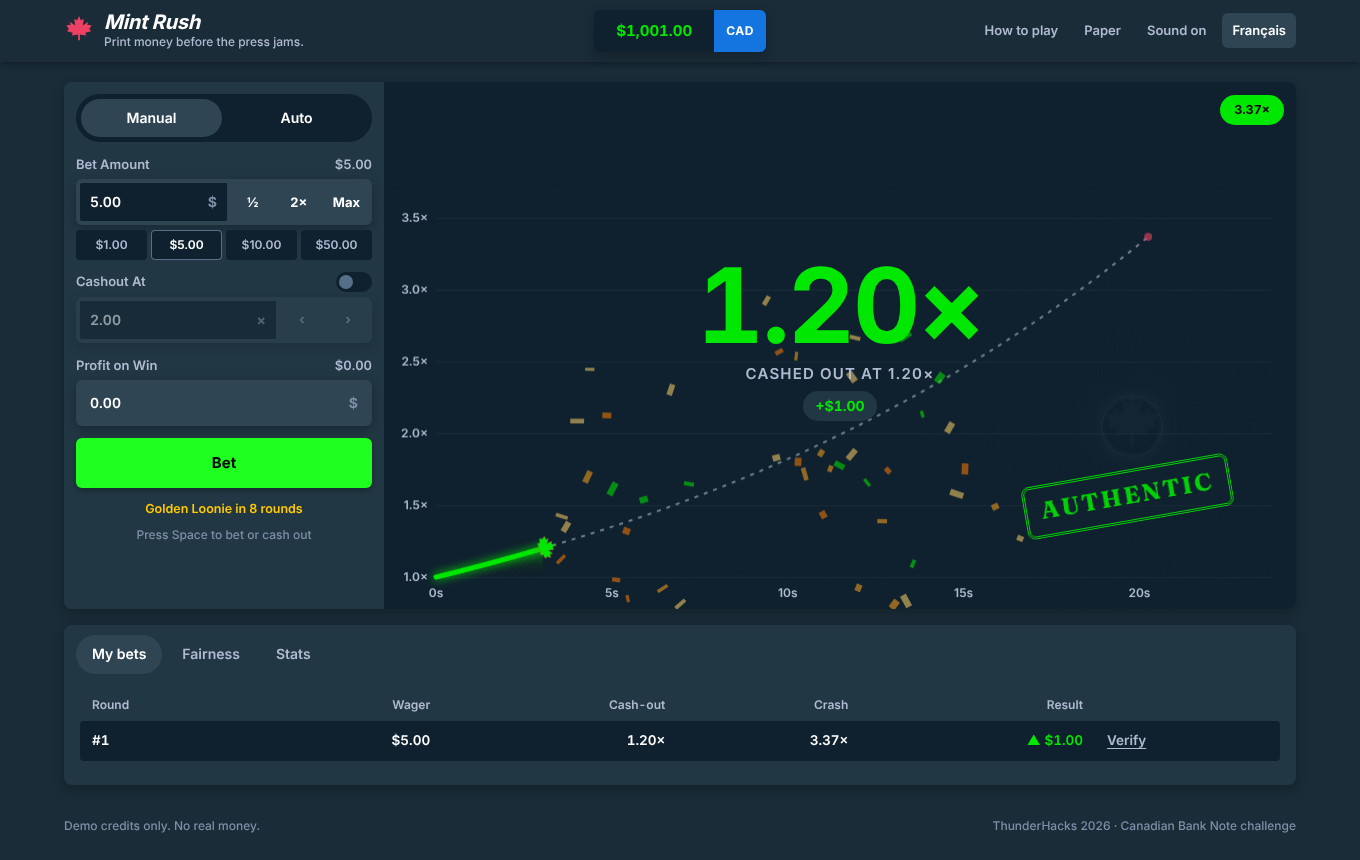
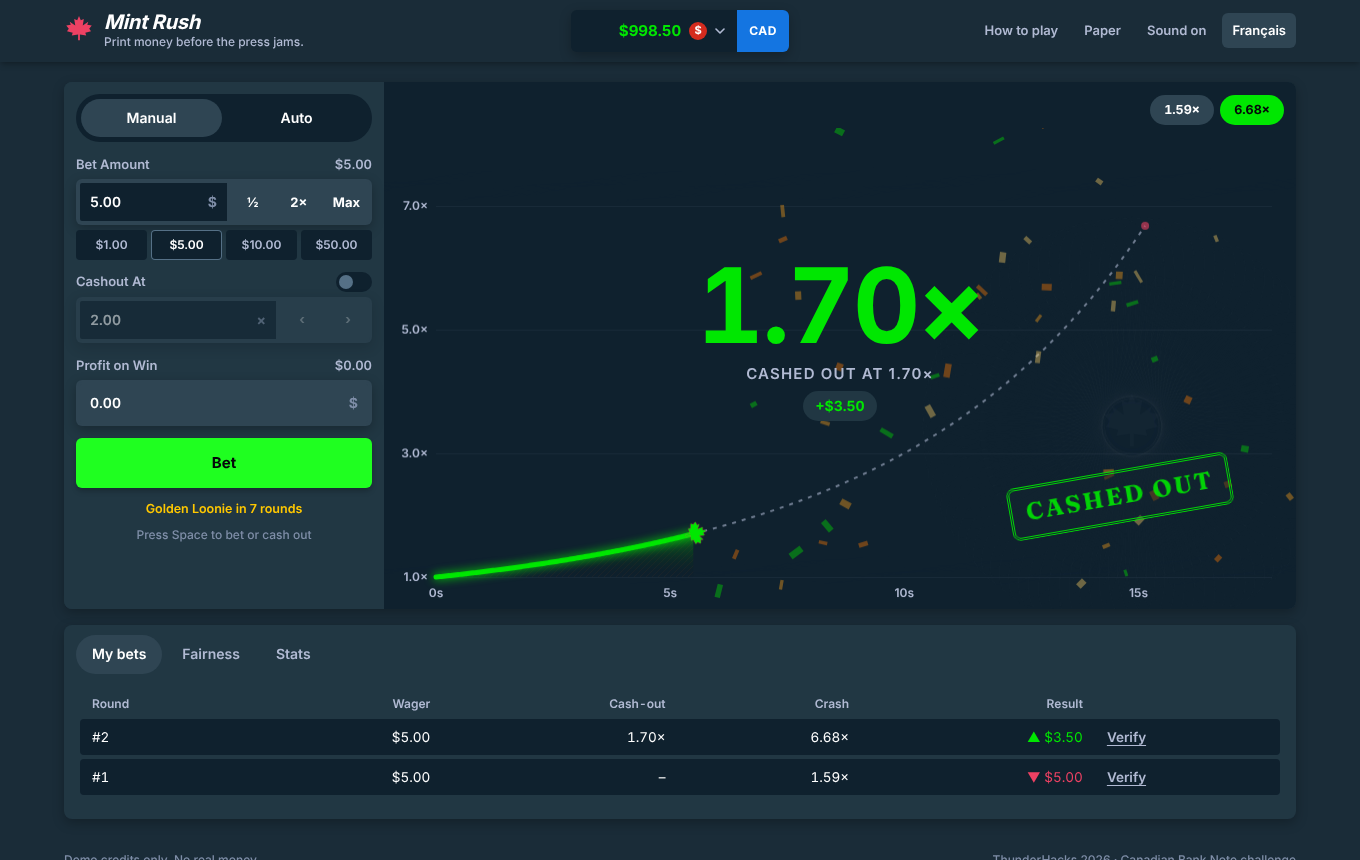
Stamp rounds Cashed out or Crashed
The result stamp now reads Cashed out on a win and Crashed on a loss
(Encaissé and Crash in French) instead of Authentic and Counterfeit
detected. README text and screenshots updated to match.

diff --git a/apps/web/src/i18n/fr.ts b/apps/web/src/i18n/fr.ts
@@ -24,8 +24,8 @@ export const fr: Record<MessageKey, string> = {
   "stage.running": "Impression",
   "stage.cashedOut": "Encaissé à {multiplier}",
   "stage.crashed": "Écrasé à {multiplier}",
-  "stage.stampWin": "Authentique",
-  "stage.stampLoss": "Contrefaçon détectée",
+  "stage.stampWin": "Encaissé",
+  "stage.stampLoss": "Crash",
   "stage.profit": "+{amount}",
   "stage.goldenBanner": "Manche Huard doré : +{boost} % de bonus sur le gain",
   "stage.potential": "Encaissez maintenant pour {amount}",

diff --git a/apps/web/src/i18n/en.ts b/apps/web/src/i18n/en.ts
@@ -22,8 +22,8 @@ export const en = {
   "stage.running": "Printing",
   "stage.cashedOut": "Cashed out at {multiplier}",
   "stage.crashed": "Crashed at {multiplier}",
-  "stage.stampWin": "Authentic",
-  "stage.stampLoss": "Counterfeit detected",
+  "stage.stampWin": "Cashed out",
+  "stage.stampLoss": "Crashed",
   "stage.profit": "+{amount}",
   "stage.goldenBanner": "Golden Loonie round: +{boost}% bonus on profit",
   "stage.potential": "Cash out now for {amount}",

diff --git a/README.md b/README.md
@@ -3,7 +3,7 @@
 **A provably fair crash game themed on Canadian banknote security printing.**
 Built for the ThunderHacks 2026 Canadian Bank Note sponsor challenge.
 
-Place a wager and the press starts printing. The multiplier climbs along an engraved guilloché curve. Cash out before the press jams to win wager × multiplier. If it jams first, the stamp reads **COUNTERFEIT DETECTED** and the wager is lost.
+Place a wager and the press starts printing. The multiplier climbs along an engraved guilloché curve. Cash out before the press jams to win wager × multiplier. If it jams first, the stamp reads **CRASHED** and the wager is lost.
 
 ![Round in progress](docs/screenshots/running.png)
 
@@ -160,8 +160,8 @@ Errors always look like `{ "error": { "code": "INSUFFICIENT_FUNDS", "message": "
 
 ## Demo script (2 minutes)
 
-1. **Play:** bet $5 and cash out around 1.5x. Point out the payout readout, the AUTHENTIC stamp, and the dashed line showing where it would have crashed.
-2. **Lose one:** let a round run until COUNTERFEIT DETECTED appears.
+1. **Play:** bet $5 and cash out around 1.5x. Point out the payout readout, the CASHED OUT stamp, and the dashed line showing where it would have crashed.
+2. **Lose one:** let a round run until CRASHED appears.
 3. **Fairness:** open My bets, press Verify, and show both checks passing in the browser.
 4. **Idempotence:** run `npm test` and show the "retrying a bet with the same key does not double charge" test.
 5. **Autobet:** switch to Auto, set 5 bets at 1.50×, and start it.
